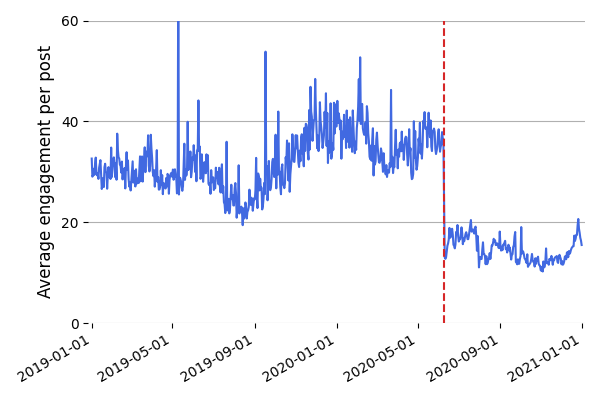
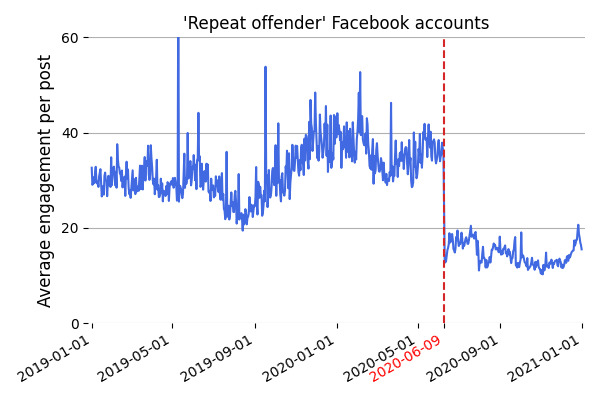
improve informations on new figure

diff --git a/code/create_section_1_figures.py b/code/create_section_1_figures.py
@@ -32,12 +32,19 @@ def plot_repeat_average_timeseries(posts_df):
     plt.figure(figsize=(6, 4))
     ax = plt.subplot()
 
-    plt.title('')
+    plt.title("'Repeat offender' Facebook accounts")
 
     plot_engagement_timeserie(ax, posts_df)
 
     plt.ylim(0, 60)
     plt.axvline(x=np.datetime64('2020-06-09'), color='C3', linestyle='--')
+
+    xticks = [np.datetime64('2019-01-01'), np.datetime64('2019-05-01'), np.datetime64('2019-09-01'),
+              np.datetime64('2020-01-01'), np.datetime64('2020-05-01'), np.datetime64('2020-09-01'), 
+              np.datetime64('2021-01-01'), np.datetime64('2020-06-09')
+             ]
+    plt.xticks(xticks, rotation=30, ha='right')
+    plt.gca().get_xticklabels()[-1].set_color('red')
 
     plt.tight_layout()
     save_figure('repeat_average_timeseries')
